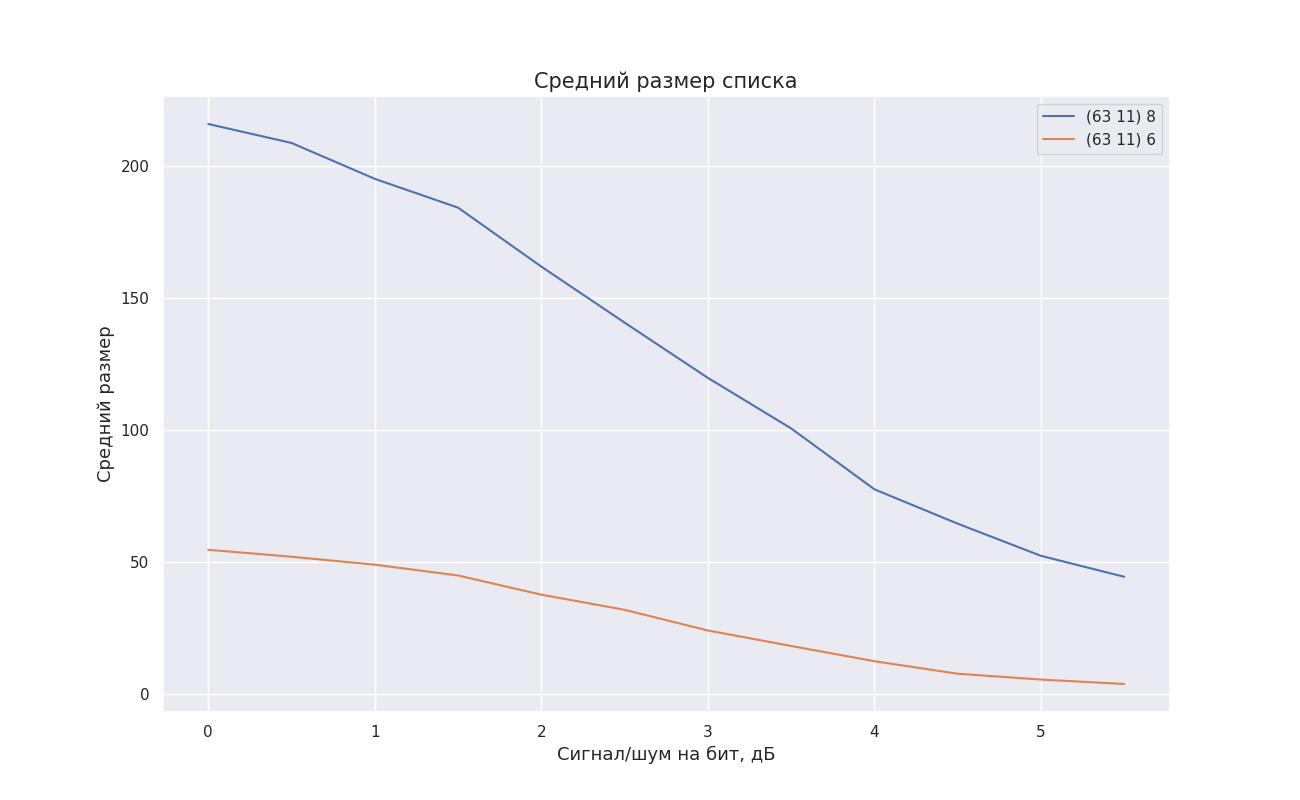
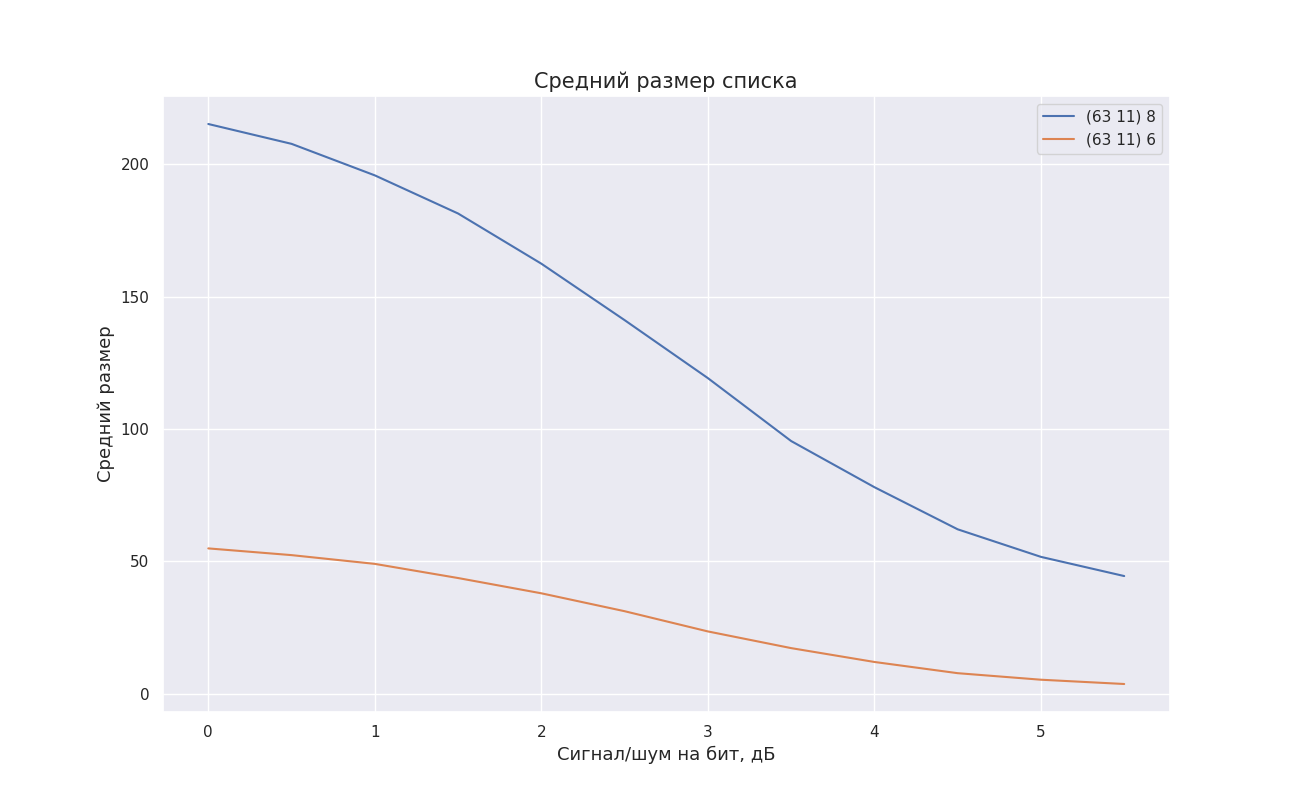
fix: increased the accuracy for the graph

diff --git a/experiment.cpp b/experiment.cpp
@@ -61,5 +61,5 @@ void collect_mean_numbers_vector(int n, int delta, int precision, int tau) {
 
 
 int main() {
-    collect_mean_numbers_vector(63, 11, 1000, 6);
+    collect_mean_numbers_vector(63, 11, 10000, 8);
 }
